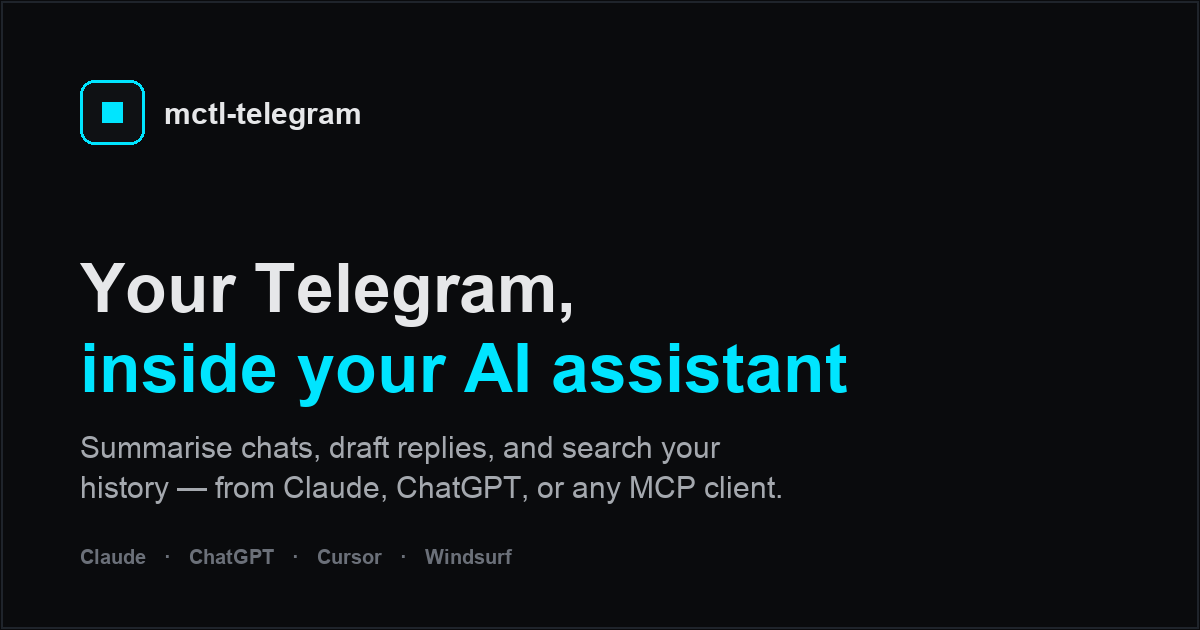
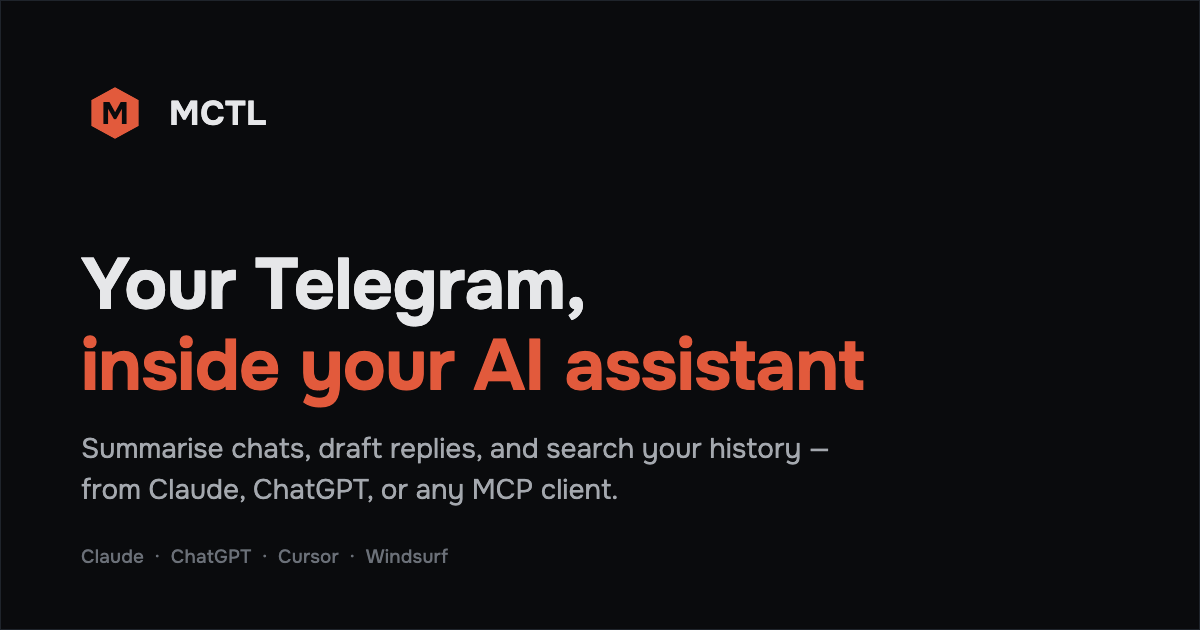
chore(web): redraw og.png and finish MCTL copy on public pages
The social card behind og:image still showed the mctl-telegram wordmark
on the pre-rebrand cyan, and running prose on the landing, docs,
platforms, security, privacy, terms and product-updates pages still
named the product mctl-telegram. Telegram API ToS 2.3 keeps "Telegram"
out of an app's name, so the public name is MCTL everywhere a person
reads it.

Repository URLs, binary names (mctl-telegram-login,
mctl-telegram-local), schema and domain-separation labels stay as they
are: they are identifiers, not branding.

diff --git a/internal/web/landing.html b/internal/web/landing.html
@@ -286,7 +286,7 @@
       </div>
       <span class="flow-arrow"><svg viewBox="0 0 32 16" width="32" height="14" fill="none" aria-hidden="true"><line x1="0" y1="7" x2="22" y2="7" stroke="currentColor" stroke-width="1.5"/><polyline points="17,2 23,7 17,12" stroke="currentColor" stroke-width="1.5" fill="none" stroke-linecap="round" stroke-linejoin="round"/></svg></span>
       <div class="flow-node">
-        <span class="node-name">mctl-telegram</span>
+        <span class="node-name">MCTL</span>
         <span class="node-label">MCP server</span>
       </div>
       <span class="flow-arrow"><svg viewBox="0 0 32 16" width="32" height="14" fill="none" aria-hidden="true"><line x1="0" y1="7" x2="22" y2="7" stroke="currentColor" stroke-width="1.5"/><polyline points="17,2 23,7 17,12" stroke="currentColor" stroke-width="1.5" fill="none" stroke-linecap="round" stroke-linejoin="round"/></svg></span>
@@ -296,9 +296,9 @@
       </div>
     </div>
     <ol class="steps">
-      <li>You authorise with Telegram sign-in. mctl-telegram stores an encrypted MTProto session on your behalf.</li>
+      <li>You authorise with Telegram sign-in. MCTL stores an encrypted MTProto session on your behalf.</li>
       <li>When you prompt your assistant, it calls the MCP tools on this server over an OAuth-authenticated connection.</li>
-      <li>mctl-telegram makes MTProto calls to Telegram, formats the result, and returns it to your assistant.</li>
+      <li>MCTL makes MTProto calls to Telegram, formats the result, and returns it to your assistant.</li>
     </ol>
   </section>
 
@@ -351,7 +351,7 @@
       <h2>Our trust model</h2>
     </div>
     <div class="trust-card">
-      <p>mctl-telegram holds a server-side Telegram session on your behalf. Here is exactly what that means:</p>
+      <p>MCTL holds a server-side Telegram session on your behalf. Here is exactly what that means:</p>
       <ul>
         <li><strong>Sessions are AES-256-GCM encrypted at rest</strong> with per-user keys derived via HKDF-SHA256.</li>
         <li><strong>No message text, phone numbers, or 2FA passwords are ever logged or persisted</strong> — enforced by the slog redaction handler.</li>
@@ -404,7 +404,7 @@
       </div>
       <div class="faq-item">
         <dt>Is this an official Telegram app?</dt>
-        <dd>No. mctl-telegram is an independent project, not affiliated with or endorsed by Telegram, OpenAI or Anthropic. It operates only on the Telegram account you explicitly connect, and you remain responsible for following Telegram's terms.</dd>
+        <dd>No. MCTL is an independent project, not affiliated with or endorsed by Telegram, OpenAI or Anthropic. It operates only on the Telegram account you explicitly connect, and you remain responsible for following Telegram's terms.</dd>
       </div>
       <div class="faq-item">
         <dt>Can it send messages on my behalf?</dt>
@@ -415,7 +415,7 @@
         <dd>Your conversation prompts, the tool arguments ChatGPT sends (e.g. peer, message text for drafts), and the tool results this server returns. That traffic is handled by ChatGPT under OpenAI's policies. This server stores only an encrypted session blob and audit metadata — see <a href="/privacy">/privacy</a>.</dd>
       </div>
       <div class="faq-item">
-        <dt>What data does mctl-telegram store?</dt>
+        <dt>What data does MCTL store?</dt>
         <dd>Only an encrypted session blob per account. No message text is ever stored or logged. The audit log records tool names and redacted peer references only.</dd>
       </div>
       <div class="faq-item">

diff --git a/internal/web/platforms.html b/internal/web/platforms.html
@@ -167,7 +167,7 @@
   <p>For users or companies that will not leave a Telegram session on a hosted server, <a href="/docs/local-bridge">Local Bridge</a> keeps it on the user's machine. The user installs <code>mctl-telegram-local</code>, signs in to Telegram locally and activates the device in a browser; your platform keeps the same endpoint and the same OAuth client. The server then relays MCP calls to that machine and sees the payloads in transit, so it is not end-to-end encryption. Local Bridge is in beta: the daemon must be running, and editing, deleting, forwarding, searching and reactions are not yet available in this mode.</p>
 
   <h2>Who runs this service</h2>
-  <p>mctl-telegram is an independent open-source project, not affiliated with Telegram, OpenAI or Anthropic. The source is at <a href="https://github.com/mctlhq/mctl-telegram" target="_blank" rel="noopener">github.com/mctlhq/mctl-telegram</a>.</p>
+  <p>MCTL is an independent open-source project, not affiliated with Telegram, OpenAI or Anthropic. The source is at <a href="https://github.com/mctlhq/mctl-telegram" target="_blank" rel="noopener">github.com/mctlhq/mctl-telegram</a>.</p>
   <div class="pending"><strong>To be published:</strong> the operating legal entity, its jurisdiction and governing law, data location, and the list of subprocessors.</div>
 
   <h2>Contact</h2>

diff --git a/internal/web/terms.html b/internal/web/terms.html
@@ -32,11 +32,11 @@
       <span>Terms</span>
     </div>
     <h1>Terms of <span class="accent">service</span></h1>
-    <p class="lead">The terms under which you may use mctl-telegram. See <a href="/privacy">/privacy</a> for data handling and <a href="/security">/security</a> for the threat model.</p>
+    <p class="lead">The terms under which you may use MCTL. See <a href="/privacy">/privacy</a> for data handling and <a href="/security">/security</a> for the threat model.</p>
   </section>
 
   <h2>What this service is</h2>
-  <p>mctl-telegram is an open-source MCP server that lets an AI assistant act on your behalf against your own Telegram user account over MTProto. It is an independent project. It is <strong>not affiliated with, endorsed by, or operated by Telegram, OpenAI or Anthropic</strong>, and "Telegram", "ChatGPT" and "Claude" are trademarks of their respective owners.</p>
+  <p>MCTL is an open-source MCP server that lets an AI assistant act on your behalf against your own Telegram user account over MTProto. It is an independent project. It is <strong>not affiliated with, endorsed by, or operated by Telegram, OpenAI or Anthropic</strong>, and "Telegram", "ChatGPT" and "Claude" are trademarks of their respective owners.</p>
 
   <h2>Your account and your responsibility</h2>
   <ul>

diff --git a/internal/web/security.html b/internal/web/security.html
@@ -52,7 +52,7 @@
   </section>
 
   <div class="warn">
-    <strong>Not zero-knowledge (hosted mode).</strong> mctl-telegram makes outbound MTProto calls to Telegram on your behalf. The running server handles plaintext Telegram data while processing requests and, when Communication Agent is enabled, decrypts encrypted agent message state for listener/queue processing. You are trusting both the deployment operator and the integrity of this code. For a stronger session-storage model, see <strong>Local Bridge mode</strong> below.
+    <strong>Not zero-knowledge (hosted mode).</strong> MCTL makes outbound MTProto calls to Telegram on your behalf. The running server handles plaintext Telegram data while processing requests and, when Communication Agent is enabled, decrypts encrypted agent message state for listener/queue processing. You are trusting both the deployment operator and the integrity of this code. For a stronger session-storage model, see <strong>Local Bridge mode</strong> below.
   </div>
 
   <h2>Reporting vulnerabilities</h2>

diff --git a/internal/web/privacy.html b/internal/web/privacy.html
@@ -45,7 +45,7 @@
   </section>
 
   <h2>ChatGPT Apps and MCP users</h2>
-  <p>When you connect mctl-telegram to ChatGPT, Claude, or another MCP client, the following data flows apply:</p>
+  <p>When you connect MCTL to ChatGPT, Claude, or another MCP client, the following data flows apply:</p>
   <ul>
     <li><strong>User-authorized account access:</strong> this service operates only on the Telegram account you explicitly connect. It is an independent project and is not affiliated with, endorsed by, or operated by Telegram, OpenAI, or Anthropic.</li>
     <li><strong>Through your MCP client:</strong> your prompts, MCP tool arguments (for example peer identifiers or draft text), and tool results returned by this server. That traffic is also processed by the MCP client provider under its own privacy policy.</li>

diff --git a/internal/web/productupdates.html b/internal/web/productupdates.html
@@ -16,7 +16,7 @@
     </div>
     <h1>Product <span class="accent">updates</span></h1>
     <p class="lead">
-      What changed in mctl-telegram, reviewed and grouped by release. The same text is used for the client
+      What changed in MCTL, reviewed and grouped by release. The same text is used for the client
       broadcast digest sent through Telegram.
     </p>
   </section>

diff --git a/internal/web/docs.html b/internal/web/docs.html
@@ -17,7 +17,7 @@
     </div>
     <h1>Developer <span class="accent">reference</span></h1>
     <p class="lead">
-      Tool catalogue, scopes, storage schema, and release checklist for the mctl-telegram MCP connector.
+      Tool catalogue, scopes, storage schema, and release checklist for the MCTL MCP connector.
     </p>
     <p class="muted">
       On this page:

diff --git a/internal/oauth/server.go b/internal/oauth/server.go
@@ -757,7 +757,7 @@ func New(ctx context.Context, cfg Config, store *db.Store) (*Server, error) {
 	// with a positive TTL). No /oauth/register call is needed for this client.
 	s.clients[ConnectClientID] = &clientReg{
 		ClientID:     ConnectClientID,
-		ClientName:   "mctl-telegram connect",
+		ClientName:   "MCTL connect",
 		RedirectURIs: []string{connectRedirectURI(cfg.Issuer)},
 		CreatedAt:    time.Time{}, // zero — never swept
 	}
